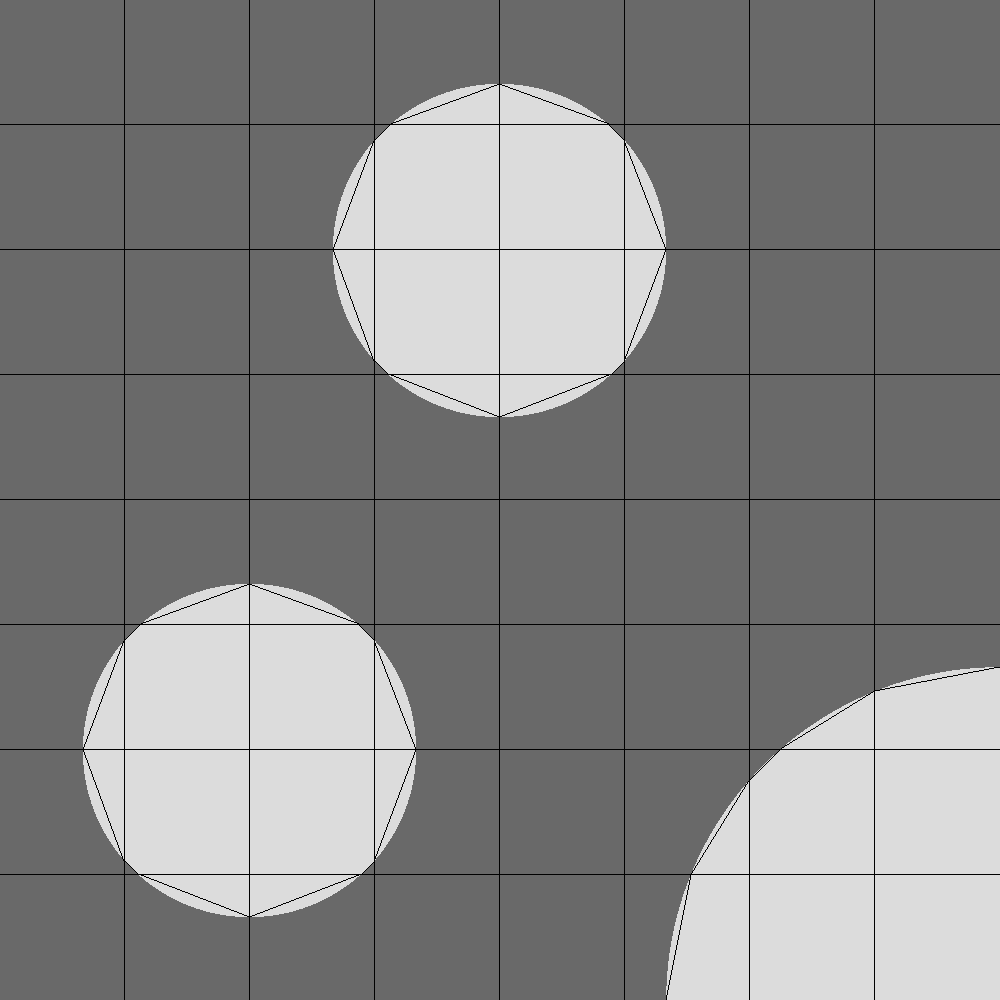
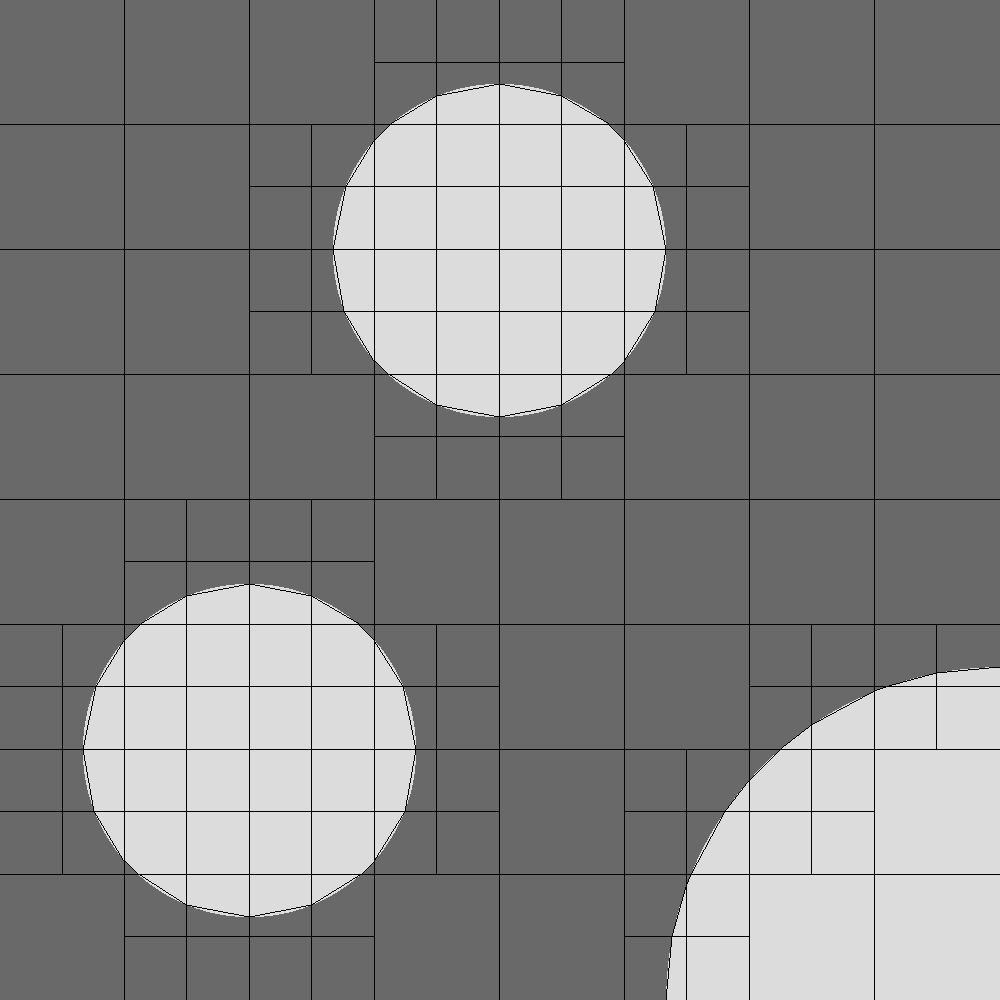
fixed the fixed in correct_pvec

diff --git a/main.py b/main.py
@@ -1446,11 +1446,29 @@ def numbering(pvec,pvecCList, llist, masterNode):
                 if abs(enrN1.x - enrN2.x)<=TOL_error and abs(enrN1.y - enrN2.y)<=TOL_error:
                     t = t + [[c1,c2,c3,c4]]
                 else:
-                    if c5>c6:
-                        t = t + [[c1,c2,c3,c4,c5,c6]]
+#                     if c5>c6:
+#                         t = t + [[c1,c2,c3,c4,c5,c6]]
+#                     else:
+#                         t = t + [[c1,c2,c3,c4,c6,c5]]
+                    if pvecCList[c5][1] < pvecCList[c6][1]:
+                        mtl = [[c1,c2,c3,c4,c6,c5]]
                     else:
-                        t = t + [[c1,c2,c3,c4,c6,c5]]
-                
+                        if pvecCList[c5][1] == pvecCList[c6][1]:
+                            if pvecCList[c5][0] < pvecCList[c6][0]:
+                                mtl = [[c1,c2,c3,c4,c6,c5]]
+                            else:
+                                mtl =  [[c1,c2,c3,c4,c5,c6]]
+                        else:       
+                            mtl =  [[c1,c2,c3,c4,c5,c6]]
+                    
+                    t = t + mtl
+                            
+                    if c1 == 80 and c2 == 81:
+                        print 'inside numbering t:'
+                        print c5, c6
+                        print pvec[c5]
+                        print pvec[c6]
+                        print mtl
 #                 t = t + [[c4,c3,c2,c1, c5, c6]]                             
         else:
             t = t + [[c1,c2,c3,c4]]
@@ -1488,13 +1506,25 @@ def numbering(pvec,pvecCList, llist, masterNode):
         if len(el) == 5:
                 tk = [new_corners[3], new_corners[2], new_corners[1], new_corners[0], new_corners[4]]
         if len(el) == 6:
-            if new_corners[5] < new_corners[4]:
-#                 print new_corners[5],new_corners[4]
-                tk = [new_corners[3], new_corners[2], new_corners[1], new_corners[0], new_corners[5], new_corners[4]]
-            else:
+#             if new_corners[5] < new_corners[4]:
+#                 tk = [new_corners[3], new_corners[2], new_corners[1], new_corners[0], new_corners[5], new_corners[4]]
+#             else:
+#                 tk = [new_corners[3], new_corners[2], new_corners[1], new_corners[0], new_corners[4], new_corners[5]]
+            if pvec[new_corners[4]][1] < pvec[new_corners[5]][1]:
                 tk = [new_corners[3], new_corners[2], new_corners[1], new_corners[0], new_corners[4], new_corners[5]]
-    
-        
+            else:
+                if pvec[new_corners[4]][1] == pvec[new_corners[5]][1]:
+                    if pvec[new_corners[4]][0] < pvec[new_corners[5]][0]:
+                        tk = [new_corners[3], new_corners[2], new_corners[1], new_corners[0], new_corners[4], new_corners[5]]
+                    else:
+                        tk = [new_corners[3], new_corners[2], new_corners[1], new_corners[0], new_corners[5], new_corners[4]]
+                else:
+                        tk = [new_corners[3], new_corners[2], new_corners[1], new_corners[0], new_corners[5], new_corners[4]]
+                        
+#             print '----',pvec[new_corners[4]], pvec[new_corners[5]]
+#             print tk
+#             print pvec[1041], pvec[1042]
+                       
         tvec = tvec + [tk]
                 
     for i in range(0,n):
@@ -1593,26 +1623,26 @@ def correct_pvec(p,full_vec,lenClist1,llist,pvecPx):
 # correct p_vec of coordinates because of lost pixels in integer division
 # now pixel at location 62 is correctly set to be 0.0625 and not 0.63
     
-    
+#     print 'start p-945',p[945]
+       
     # go over the coordinates of the regular grid in the p vector  
     for i in range(0, lenClist1):
         for j in [0,1]:
             val = find_nearest(full_vec,p[i,j])
-            p[i,j] = val
 
-            # go over the coordinates of the intersection nodes in the pvecor
+#             # go over the coordinates of the intersection nodes in the pvecor
 #             for k in range(lenClist1,len(p)):
 #                 # if any of the coordinates of the intersection nodes corresponds
 #                 # to a coordinate value on the grid, correct it
-# #                 if k == 1042:
-# #                     print 'pij=',p[i,j], [i,j]
-# #                     print 'val=',val, k
-# #                     print 'pk=',p[k]
-#                 if p[k,0] == old_pij: 
+#                 if p[k,0] == p[i,j]: 
 #                     p[k,0] = val
-#                 if p[k,1] == old_pij:
+#                 if p[k,1] == p[i,j]:
 #                     p[k,1] = val
+            p[i,j] = val
 
+
+
+#     print 'mid p-945', p[945]
     # go over the coordinates of the intersection nodes
     # and update them accordingly
 
@@ -1627,55 +1657,44 @@ def correct_pvec(p,full_vec,lenClist1,llist,pvecPx):
 
         
         # look to see if the element has enrichment nodes
-        if len(tl)>4:
+        if len(tl) > 4:
             
 #             enrich1 = [root.enrichNodes[0].x, root.enrichNodes[0].y]
 #             enrich2 = [root.enrichNodes[1].x, root.enrichNodes[1].y]
 
             enrich1 = pvecPx[tp[4]]
             enrich2 = pvecPx[tp[5]]
+            
+#             if pvecPx[tp[4]][1] < pvecPx[tp[5]][1]:
+#                 enrich1 = pvecPx[tp[5]]
+#                 enrich2 = pvecPx[tp[4]]
+#             else:
+#                 if pvecPx[tp[4]][1] == pvecPx[tp[5]][1]:
+#                     if pvecPx[tp[4]][0] < pvecPx[tp[5]][0]:
+#                         
+#                         enrich1 = pvecPx[tp[4]]
+#                         enrich2 = pvecPx[tp[5]]
+#                     else:
+#                         enrich1 = pvecPx[tp[5]]
+#                         enrich2 = pvecPx[tp[4]]
+                        
             ind1 = tl[4]
             ind2 = tl[5]
 
-            
-            # enrichment node 1 is one of the corners of the element
-            if on_corners(enrich1,p1.x,p1.y,p3.x,p3.y):
-                x1 = enrich1[0] / 1000.0
-                y1 = enrich1[1] / 1000.0
-                if x1 != 0.0:
-                    x1 += 0.001
-                if y1 != 0.0:
-                    y1 += 0.001            
-                y1 = 1 - y1
-                valx1 = find_nearest(full_vec,x1)
-                valy1 = find_nearest(full_vec,y1)
+#             if tl[0] == 944 or tl[0]==660:
+#                 print tp
+#                 print pvecPx[tp[4]]
+#                 print pvecPx[tp[5]]
+#                 print 'en 1:', enrich1
+#                 print 'en2:', enrich2
 
-                # update the coordinates to the nearest "point on the grid"                
-                p[ind1,0] = valx1
-                p[ind1,1] = valy1
-             
-            # enrichment node 2 is one of the corners of the element   
-            if on_corners(enrich2,p1.x,p1.y,p3.x,p3.y):
-                x2 = enrich2[0] / 1000.0
-                y2 = enrich2[1] / 1000.0
-                if x2 != 0.0:
-                    x2 += 0.001
-                if y2 != 0.0:
-                    y2 += 0.001            
-                y2 = 1 - y2
-                valx2 = find_nearest(full_vec,x2)
-                valy2 = find_nearest(full_vec,y2)
-                
-                # update the coordinates to the nearest "point on the grid"
-                p[ind2,0] = valx2
-                p[ind2,1] = valy2
-                
-            # enrichment node 1 is on an edge
-#             if not(on_corners(enrich1,p1.x,p1.y,p3.x,p3.y)):
-            if not(on_corners(enrich1,p1.x,p1.y,p3.x,p3.y)):
-            
-                x1 = p[tl[4],0]
-                y1 = p[tl[4],1]
+#             print '-------', tl
+#             print tp
+#             print enrich1
+#             print enrich2
+
+#             # enrichment node 1 is one of the corners of the element
+#             if on_corners(enrich1,p1.x,p1.y,p3.x,p3.y):
 #                 x1 = enrich1[0] / 1000.0
 #                 y1 = enrich1[1] / 1000.0
 #                 if x1 != 0.0:
@@ -1683,6 +1702,68 @@ def correct_pvec(p,full_vec,lenClist1,llist,pvecPx):
 #                 if y1 != 0.0:
 #                     y1 += 0.001            
 #                 y1 = 1 - y1
+#                 valx1 = find_nearest(full_vec,x1)
+#                 valy1 = find_nearest(full_vec,y1)
+#   
+#                 # update the coordinates to the nearest "point on the grid"                
+#                 p[ind1,0] = valx1
+#                 p[ind1,1] = valy1
+#                
+# #                 if tl[0] == 659:
+# #                         print '--11111--------'
+# #                         print 'enrich1 = ', enrich1
+# #                         print 'enrich2 = ', enrich2
+# #                         print tl
+# #                         print x2,y2
+# #                         print pvecPx[tp[4]]
+# #                         print pvecPx[tp[5]]
+# #                         print valx1, valy1
+# #                         print 'ind1', ind2, p[ind1]
+# #                                         
+#                
+#             # enrichment node 2 is one of the corners of the element   
+#             if on_corners(enrich2,p1.x,p1.y,p3.x,p3.y):
+#                 x2 = enrich2[0] / 1000.0
+#                 y2 = enrich2[1] / 1000.0
+#                 if x2 != 0.0:
+#                     x2 += 0.001
+#                 if y2 != 0.0:
+#                     y2 += 0.001            
+#                 y2 = 1 - y2
+#                 valx2 = find_nearest(full_vec,x2)
+#                 valy2 = find_nearest(full_vec,y2)
+#                   
+#                 # update the coordinates to the nearest "point on the grid"
+#                 p[ind2,0] = valx2
+#                 p[ind2,1] = valy2
+# #                  
+# #                 if tl[0] == 659:
+# #                         print '--------------'
+# #                         print 'enrich1 = ', enrich1
+# #                         print 'enrich2 = ', enrich2
+# #                         print tl
+# #                         print x2,y2
+# #                         print pvecPx[tp[4]]
+# #                         print pvecPx[tp[5]]
+# #                         print valx2, valy2
+# #                         print 'ind2', ind2, p[ind2]
+                  
+            # enrichment node 1 is on an edge
+#             if not(on_corners(enrich1,p1.x,p1.y,p3.x,p3.y)):
+            if not(on_corners(enrich1,p1.x,p1.y,p3.x,p3.y)):
+#                 if tl[0] == 944:
+#                     print 'enrich 1 on corners: ', ind1, ind2
+#                     print p[945]
+
+#                 x1 = p[tl[4],0]
+#                 y1 = p[tl[4],1]
+                x1 = enrich1[0] / 1000.0
+                y1 = enrich1[1] / 1000.0
+                if x1 != 0.0:
+                    x1 += 0.001
+                if y1 != 0.0:
+                    y1 += 0.001            
+                y1 = 1 - y1
                  
                 if ((enrich1[0] == p1.x or enrich1[0] == p3.x) and 
                  (enrich1[1] != p1.y and enrich1[1] != p3.y)):
@@ -1693,7 +1774,17 @@ def correct_pvec(p,full_vec,lenClist1,llist,pvecPx):
                     # update the X - coordinate to the nearest "point on the grid"
                     p[ind1,0] = valx1
                     p[ind1,1] = valy1
-                
+                                    
+#                     if tl[0] == 36:
+#                         print '--------------'
+#                         print 'enrich1 = ', enrich1
+#                         print 'enrich2 = ', enrich2
+#                         print tl
+#                         print x1,y1
+#                         print pvecPx[tp[4]]
+#                         print pvecPx[tp[5]]
+#                         print valx1, valy1
+                        
                 if ((enrich1[0] != p1.x and enrich1[0] != p3.x) and 
                  (enrich1[1] == p1.y or enrich1[1] == p3.y)):   
                      
@@ -1704,27 +1795,19 @@ def correct_pvec(p,full_vec,lenClist1,llist,pvecPx):
                     p[ind1,0] = valx1
                     p[ind1,1] = valy1
                 
-#             if tl[0] == 36:
-#                 print '--------------'
-#                 print 'enrich1 = ', enrich1
-#                 print 'enrich2 = ', enrich2
-#                 print tl
-#                 print pvecPx[tp[4]]
-#                 print pvecPx[tp[5]]
-                    
+#                 if tl[0] == 944:
+#                     print 'end p-945', p[945]
                 
             # enrichment node 2 is on an edge                
             if not(on_corners(enrich2,p1.x,p1.y,p3.x,p3.y)):
-                x1 = p[tl[5],0]
-                y1 = p[tl[5],1]
-
-#                 x1 = enrich2[0] / 1000.0
-#                 y1 = enrich2[1] / 1000.0
-#                 if x1 != 0.0:
-#                     x1 += 0.001
-#                 if y1 != 0.0:
-#                     y1 += 0.001            
-#                 y1 = 1 - y1
+                
+                x1 = enrich2[0] / 1000.0
+                y1 = enrich2[1] / 1000.0
+                if x1 != 0.0:
+                    x1 += 0.001
+                if y1 != 0.0:
+                    y1 += 0.001            
+                y1 = 1 - y1
                 
                 if ((enrich2[0] == p1.x or enrich2[0] == p3.x) and 
                  (enrich2[1] != p1.y and enrich2[1] != p3.y)):
@@ -1744,9 +1827,16 @@ def correct_pvec(p,full_vec,lenClist1,llist,pvecPx):
                     # update the Y - coordinate to the nearest "point on the grid"    
                     p[ind2,0] = valx1
                     p[ind2,1] = valy1                  
-       
-#     print '1042', p[1042]    
-#     print '1041: ', p[1041]     
+
+    
+#             if p1.x == 420 and p2.x == 436 and p1.y == 389 and p3.y == 405:
+#                print on_corners(enrich1,p1.x,p1.y,p3.x,p3.y)
+#                print on_corners(enrich2,p1.x,p1.y,p3.x,p3.y)
+#                print not(on_corners(enrich1,p1.x,p1.y,p3.x,p3.y))
+#                print not(on_corners(enrich2,p1.x,p1.y,p3.x,p3.y))
+     
+
+    
     return p
 
 def find_index(array,value):

diff --git a/igfem2d.py b/igfem2d.py
@@ -401,6 +401,8 @@ def computeNorm(p,t,pConf,tConf,ui,wi,k1,k2,U,UConf,masterNode,llist):
 
     # COMPUTING THE L-2 NORM
     for e in range(0,T):
+#     for e in range(0,250):
+
 #    for e in range(34,51):
 #     for e in [35,37,38,40,43,44,47,48,49,50]:
 #    for e in [38, 102, 122]:
@@ -4950,6 +4952,7 @@ def myquad(m,n,k1,k2,ui,wi,p,t,masterNode,llist,image):
 
     list_hanging_nodes = []
     for e in range(0,T):
+#     for e in range(0,250):
         
         nodes = t[e] # row of t =  node numbers of the 4 corners of element e
     
@@ -5546,7 +5549,13 @@ def myquad(m,n,k1,k2,ui,wi,p,t,masterNode,llist,image):
 
                 else:
 
-                    
+#                     x0 = coords[0,0]
+#                     x1 = coords[1,0]
+#                     y0 = coords[0,1]
+#                     y1 = coords[2,1]
+#                     print x0,x1,y0,y1
+#                     print 'nodes:', nodes
+#                     print p[nodes,:]
                     # the North-West corner is cut, 0-4-3, 2-5-3
                     if (
                         ((enrich1[0] == x0 and enrich2[1] == y1) or
@@ -5566,6 +5575,7 @@ def myquad(m,n,k1,k2,ui,wi,p,t,masterNode,llist,image):
                                     K[nodes[j],nodes[i]] = K[nodes[i],nodes[j]]
                             F[nodes[i],0] = F[nodes[i],0] + Fe_NW[i]
 
+
                     # the South-East corner is cut, 0-4-1, 1-5-2
                     if ( 
                         ((enrich1[1] == y0 and enrich2[0] == x1) or
@@ -5574,6 +5584,18 @@ def myquad(m,n,k1,k2,ui,wi,p,t,masterNode,llist,image):
                         not(on_corners(enrich2,x0,y0,x1,y1))
                         ):
                         print 'SE corner'
+                        
+#                         print x1,y1, enrich1
+#                         print not(on_corners(enrich1,x0,y0,x1,y1))
+#                         print not(on_corners(enrich2,x0,y0,x1,y1))
+#                         print 'elem:', e, root.tlist
+#                         print 'coords ', [x0,x1],[y0,y1]
+#                         print 'pixels ',[p1.x,p3.x],[p1.y,p3.y]
+#                         print 'enrich1 ',enrich1
+# #                         print 'enrich2 ',enrich2
+#                         print root.enrichNodes[0].x, root.enrichNodes[0].y
+# #                         print root.enrichNodes[1].x, root.enrichNodes[1].y
+                        
                         [Ke_SE,Fe_SE] = SE_corner(p,ui,wi,k1,k2,nodes)
     
                         # add the local stiffness matrix and local load vector to the global K and F
